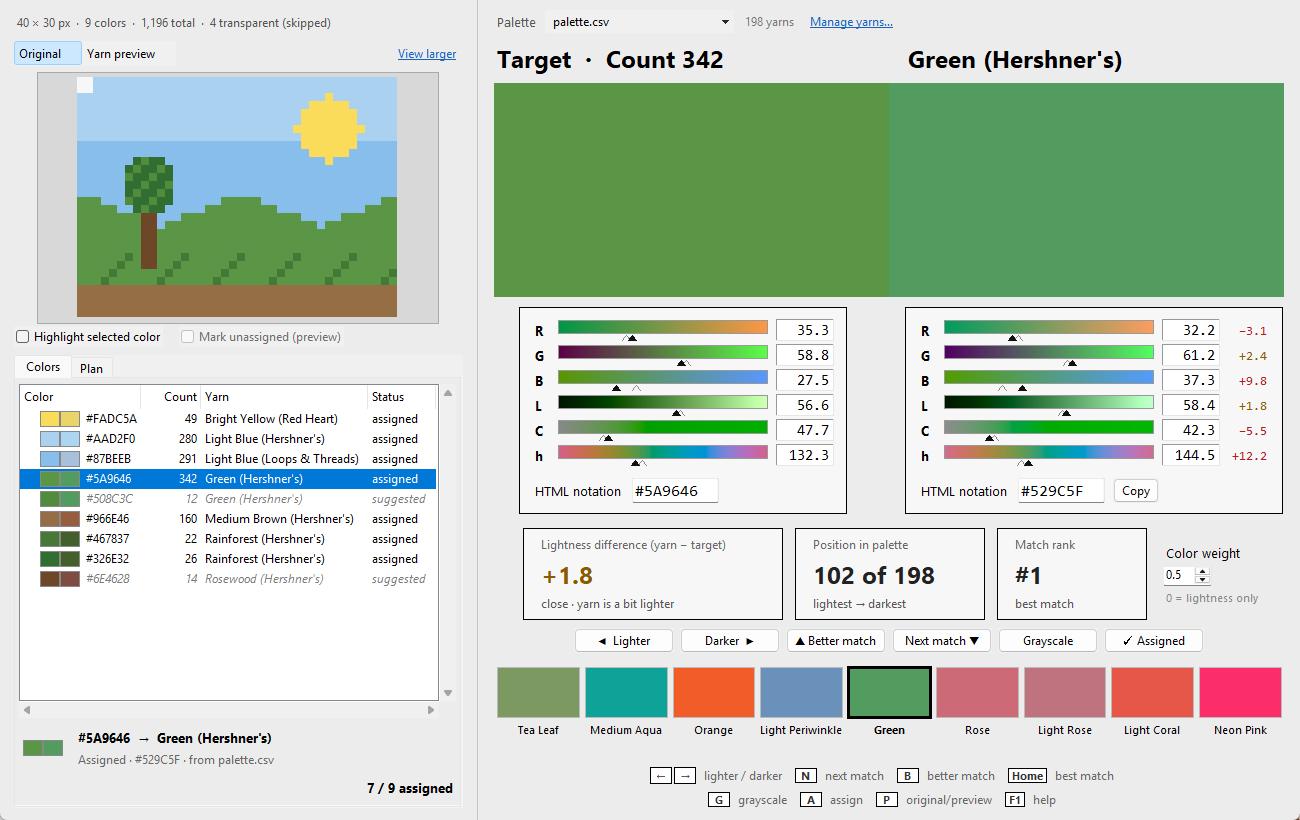
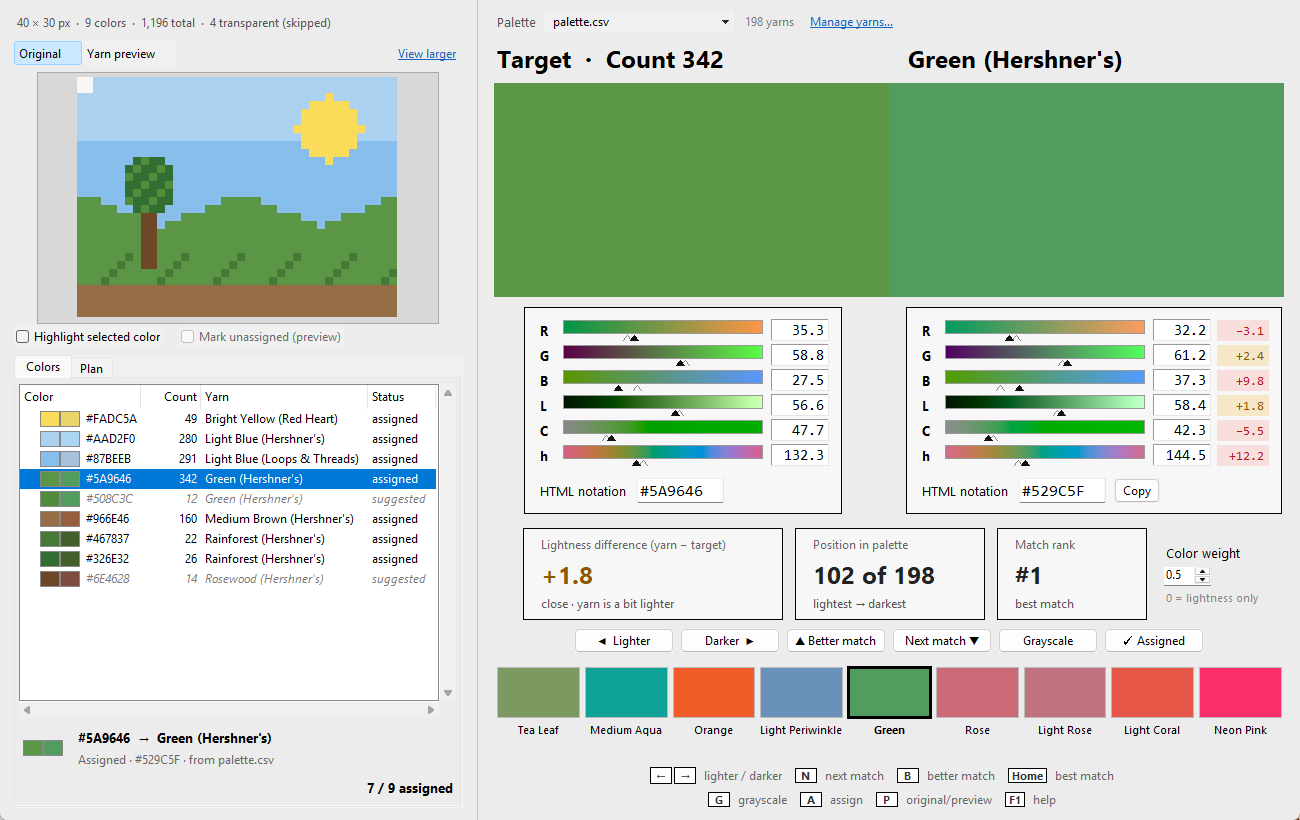
Comparison: per-channel differences on pale tinted chips
Dark text on a pale tint (as the palette manager's badges) reads better than
colored 10 pt digits; comparison bars 200 px to fit.

diff --git a/src/latchwork/widgets.py b/src/latchwork/widgets.py
@@ -123,6 +123,7 @@ class StatCard(tk.Frame):
 
 
 CLOSE, NEAR, FAR = "#1B5E20", "#8A5A00", "#B71C1C"   # difference within 1, within 3, more
+TINT = {CLOSE: "#DCEFDD", NEAR: "#F6E7C8", FAR: "#F9DEDE"}  # pale chip behind that text color
 
 
 def closeness_color(diff):
@@ -187,9 +188,9 @@ class ColorPanel(tk.Frame):
                            relief="sunken", bd=1, padx=4)
             val.grid(row=row, column=2, sticky="e")
             if deltas:
-                d = tk.Label(self, font=("Consolas", 10), bg=PANEL_BG, fg="#666", width=6,
-                             anchor="e")
-                d.grid(row=row, column=3, sticky="e", padx=(2, 0))
+                d = tk.Label(self, font=("Consolas", 10), bg=PANEL_BG, width=6, anchor="e",
+                             padx=3)
+                d.grid(row=row, column=3, sticky="e", padx=(6, 0))
                 self.deltas.append(d)
             self.bars.append(bar)
             self.values.append(val)
@@ -211,7 +212,7 @@ class ColorPanel(tk.Frame):
         self.images = []
         if rgb is None:
             for d in self.deltas:
-                d.config(text="")
+                d.config(text="", bg=PANEL_BG)
             for bar, val in zip(self.bars, self.values):
                 bar.delete("all")
                 bar.create_rectangle(0, 0, self.bar_w - 1, BAR_H - 1, fill="#DDD", outline="#BBB")
@@ -229,13 +230,13 @@ class ColorPanel(tk.Frame):
                      for name, value, _, _ in _channels(rgb, lch) if name != "h" or hue_ok}
         for name, d in zip("RGBLCh", self.deltas):
             if name not in delta:
-                d.config(text="")
+                d.config(text="", bg=PANEL_BG)
                 continue
             size = delta[name]
             if name == "h":   # how far the color moves around the hue circle: Lab's delta H
                 size = 2 * math.sqrt(lch[1] * olch[1]) * math.sin(math.radians(size) / 2)
-            d.config(text=("%+.1f" % delta[name]).replace("-", "−"),
-                     fg=closeness_color(size))
+            fg = closeness_color(size)
+            d.config(text=("%+.1f" % delta[name]).replace("-", "−"), fg=fg, bg=TINT[fg])
         for (name, value, pos, sample), bar, val in zip(_channels(rgb, lch),
                                                         self.bars, self.values):
             bar.delete("all")

diff --git a/src/latchwork/help.py b/src/latchwork/help.py
@@ -102,7 +102,7 @@ Pixel art is more vivid than any yarn; high weights chase colorfulness and light
 - Ctrl+1 … Ctrl+9: switch to palette 1–9 of the palette list.
 - F1: this help.
 
-The hollow markers on the bars (R, G, B, L, C and h) show the other side's value, and the small numbers right of the yarn's values are yarn minus target per channel (hue the shorter way around the circle), colored like the lightness card: green within 1, amber within 3, red beyond (for hue, by how far the color actually moves, so a big angle on a dull color can still be green), so the difference between target and yarn is visible at a glance (no hue marker or difference for near-grays, whose hue means little).
+The hollow markers on the bars (R, G, B, L, C and h) show the other side's value, and the small numbers right of the yarn's values are yarn minus target per channel (hue the shorter way around the circle), on a colored chip like the lightness card's colors: green within 1, amber within 3, red beyond (for hue, by how far the color actually moves, so a big angle on a dull color can still be green), so the difference between target and yarn is visible at a glance (no hue marker or difference for near-grays, whose hue means little).
 """),
     ("Palettes and brands", """
 # Palettes and brands

diff --git a/src/latchwork/app.py b/src/latchwork/app.py
@@ -25,7 +25,7 @@ from .widgets import ColorPanel, StatCard, Tooltip, describe_delta_L
 ROOT = os.path.dirname(os.path.dirname(os.path.dirname(os.path.abspath(__file__))))
 DATA_DIR = os.path.join(ROOT, "data")
 DEFAULT_PALETTE = os.path.join(DATA_DIR, "palette.csv")
-COMPARE_BAR_W = 210   # channel bars in the comparison: room for the yarn's difference column
+COMPARE_BAR_W = 200   # channel bars in the comparison: room for the yarn's difference column
 SETTINGS = os.path.join(ROOT, "settings", "latchwork_settings.json")  # per-user, not in git
 OLD_SETTINGS = os.path.join(ROOT, "latchwork_settings.json")          # before the data/ move
 

diff --git a/docs/DESIGN.md b/docs/DESIGN.md
@@ -84,10 +84,11 @@ and a dot on its strip tile (assignments only, not suggestions; the ranking is u
 since a shared yarn merges two colors on the rug, which is sometimes wanted and sometimes
 not). Hollow markers on every bar (R, G, B, L, C, h) show the other side's value, and a
 column right of the yarn's values gives yarn − target per channel, in the same scale as the
-values (R, G, B 0–100); hue goes the shorter way around, so 350° vs 10° is −20. Each is
-colored like the lightness card, green within 1, amber within 3, red beyond; hue is judged by
-ΔH = 2√(C₁C₂)·sin(Δh/2), how far the color moves in Lab units, since the same angle is a
-big change on a vivid color and almost none on a dull one (the number shown stays in degrees).
+values (R, G, B 0–100); hue goes the shorter way around, so 350° vs 10° is −20. Each
+sits on a pale chip colored like the lightness card: green within 1, amber within 3, red
+beyond. Hue is judged by ΔH = 2√(C₁C₂)·sin(Δh/2), how far the color moves in Lab units,
+since the same angle is a big change on a vivid color and almost none on a dull one (the
+number shown stays in degrees).
 No hue marker or difference below chroma 5, where hue means little.
 
 ## Palettes (`palette.py`, `palette_window.py`)
